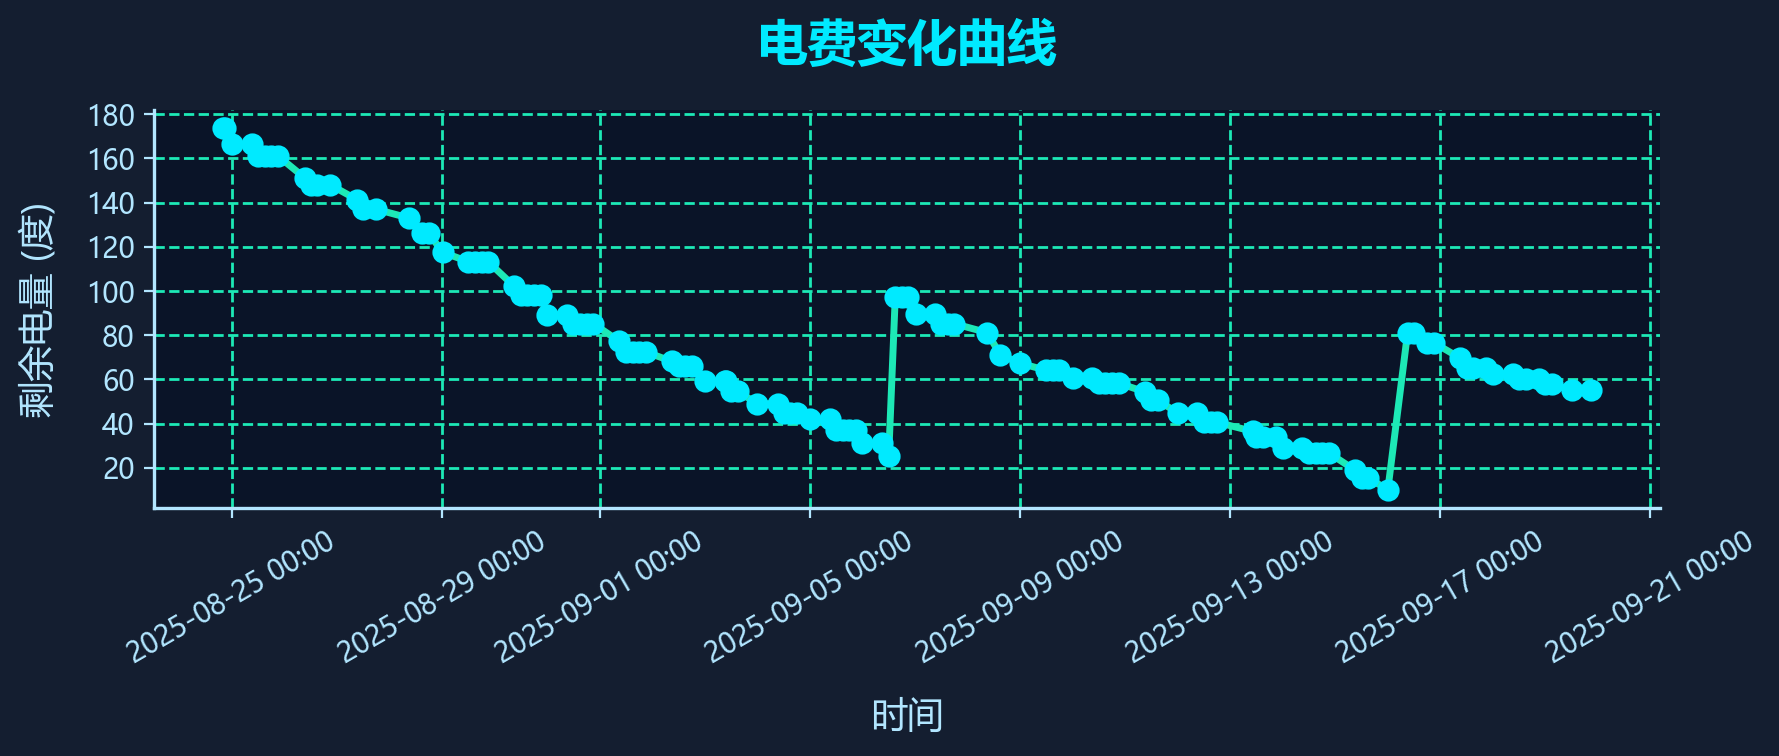
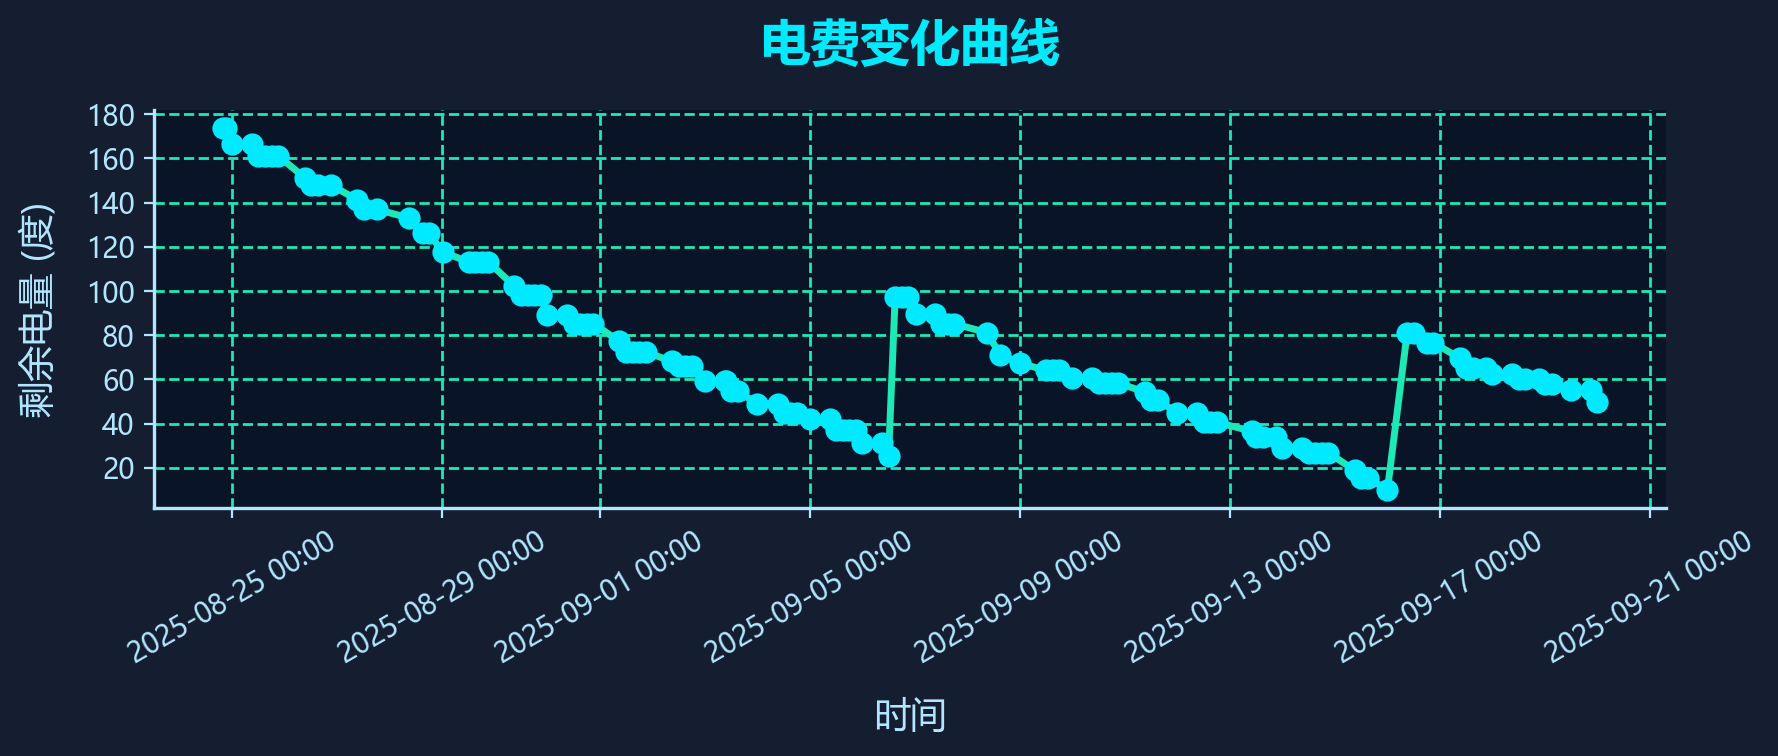
2025-09-20 00:03 自动提交电费变更

diff --git a/data/debug_page_source.html b/data/debug_page_source.html
@@ -2,7 +2,7 @@
     <meta http-equiv="Content-Type" content="text/html; charset=UTF-8">
     <meta http-equiv="X-UA-Compatible" content="IE=edge">
     <meta name="viewport" content="width=device-width, initial-scale=1, user-scalable=no">
-    <meta name="_csrf" content="85001989-e350-46b2-9db9-12df3c0da8d9">
+    <meta name="_csrf" content="f6cf0039-312b-4669-8c63-2a2b7b7936ec">
     <meta name="_csrf_header" content="X-CSRF-TOKEN">
     <link type="image/png" href="/epay/images/nju/icon.png" rel="shortcut icon">
     <link type="text/css" rel="stylesheet" href="/epay/css/wxpage/weui.min.css">
@@ -32,7 +32,7 @@
 
 
 <body>
-<div id="app"><div class="centent"><div class="top"><div class="clearfix"><span class="fl">持卡人姓名：<i>吴相民</i></span></div> <div class="clearfix"><span class="fl">校园卡余额：<i class="green">55.48元</i></span></div></div> <div class="line"></div> <div class="cont"><div class="clearfix"><span class="fl">缴费地址：<i>仙林校区 18幢 18栋第17层1702</i></span></div> <div class="clearfix"><span class="fl">剩余电量：<i>55.12度</i><em></em></span></div> <!----> <!----></div> <div class="num clearfix"><div style="display: flex; flex-wrap: wrap;"><span class="active">10元</span><span class="">20元</span><span class="">50元</span><span class="">100元</span><span class="">200元</span><span class="">自定义</span></div></div> <div class="inputbox" style="display: none;"><input type="text" placeholder="请输入充值金额" pattern="[0-9]*" maxlength="4" id="amount"></div> <div class="footer">充值</div> <div class="desc">充值时间：每天00:05-23:55</div> <div class="wapat"><div class="wapat-inner"><div class="wapat-title">错误！</div> <div class="wapat-btn-box"><div class="wapat-btn wapat-btn-ok">确定</div></div></div></div></div></div>
+<div id="app"><div class="centent"><div class="top"><div class="clearfix"><span class="fl">持卡人姓名：<i>吴相民</i></span></div> <div class="clearfix"><span class="fl">校园卡余额：<i class="green">55.48元</i></span></div></div> <div class="line"></div> <div class="cont"><div class="clearfix"><span class="fl">缴费地址：<i>仙林校区 18幢 18栋第17层1702</i></span></div> <div class="clearfix"><span class="fl">剩余电量：<i>49.58度</i><em></em></span></div> <!----> <!----></div> <div class="num clearfix"><div style="display: flex; flex-wrap: wrap;"><span class="active">10元</span><span class="">20元</span><span class="">50元</span><span class="">100元</span><span class="">200元</span><span class="">自定义</span></div></div> <div class="inputbox" style="display: none;"><input type="text" placeholder="请输入充值金额" pattern="[0-9]*" maxlength="4" id="amount"></div> <div class="footer">充值</div> <div class="desc">充值时间：每天00:05-23:55</div> <div class="wapat"><div class="wapat-inner"><div class="wapat-title">错误！</div> <div class="wapat-btn-box"><div class="wapat-btn wapat-btn-ok">确定</div></div></div></div></div></div>
 
 
 
